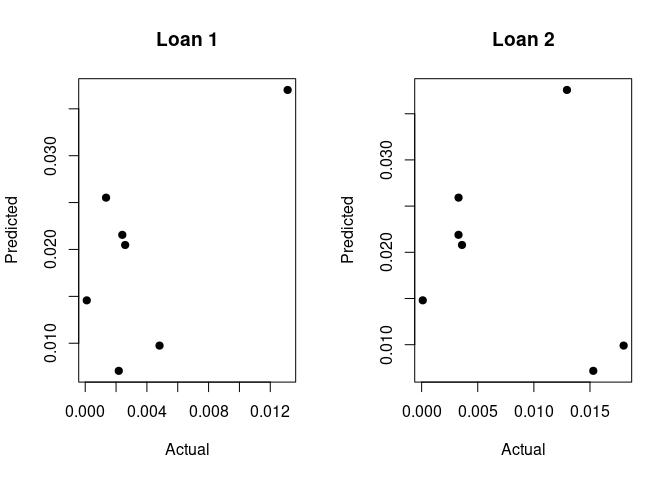
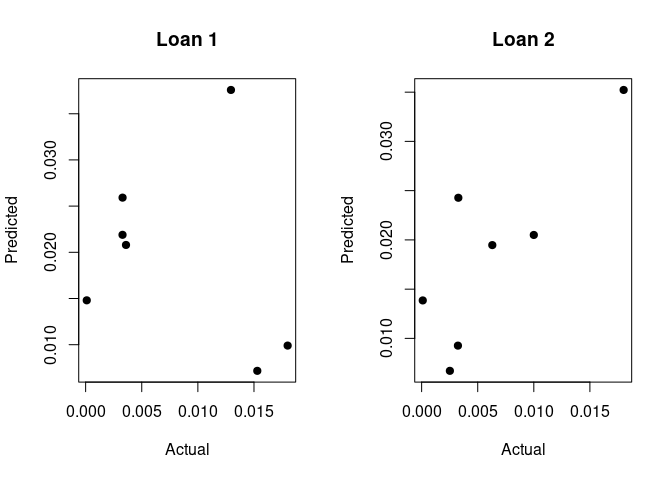
Updates.

diff --git a/newrmd.md b/newrmd.md
@@ -185,14 +185,14 @@ summary(mod_bl)
     ##                  Within R2: 0.002527
 
 ``` r
-mod_st <- feols(default_rate ~ account_id | age^r12_gdp_bl, data = data)
+mod_st <- feols(default_rate ~ account_id | age^r12_gdp_st, data = data)
 summary(mod_st)
 ```
 
     ## OLS estimation, Dep. Var.: default_rate
     ## Observations: 2,372 
-    ## Fixed-effects: age^r12_gdp_bl: 8
-    ## Standard-errors: Clustered (age^r12_gdp_bl) 
+    ## Fixed-effects: age^r12_gdp_st: 8
+    ## Standard-errors: Clustered (age^r12_gdp_st) 
     ##             Estimate Std. Error  t value Pr(>|t|)    
     ## account_id -1.34e-08   6.46e-09 -2.07982 0.076106 .  
     ## ---
@@ -214,8 +214,8 @@ is more appropriate to use a Fixed-Effect Generalized Linear Model
 instead of an Ordinary Least Squares.
 
 ``` r
-mod_bound = feglm(default_rate ~ account_id | age + r12_gdp_bl, data = data, family = "quasibinomial")
-summary(mod_bound$fitted.values)
+mod_bound_bl = feglm(default_rate ~ account_id | age + r12_gdp_bl, data = data, family = "quasibinomial")
+summary(mod_bound_bl$fitted.values)
 ```
 
     ##     Min.  1st Qu.   Median     Mean  3rd Qu.     Max. 
@@ -229,8 +229,8 @@ Plot the actual vs the predicted values of the default rate for the two
 loans selected previously.
 
 ``` r
-pred_1 = predict(mod_bound, book_1)
-pred_2 = predict(mod_bound, book_2)
+pred_1 = predict(mod_bound_bl, book_1)
+pred_2 = predict(mod_bound_bl, book_2)
 
 df_1 = data.frame(Age = book_1$age, Actual = book_1$default_rate, Predicted = pred_1)
 df_2 = data.frame(Age = book_2$age, Actual = book_2$default_rate, Predicted = pred_2)
@@ -255,21 +255,21 @@ Aggregate actual rates and predicted rates by age.
 ``` r
 par(mfrow=c(1,2))
 
-plot(x = df_1$Age, y = df_1$Predicted, type = "p", pch = 19, col = "red",
+plot(x = df_1[-1,]$Age, y = df_1[-1,]$Predicted, type = "p", pch = 19, col = "red", ylim = c(0, 0.1),
      main = "Loan 1",
      xlab = "Time",
      ylab = "Default Rate")
 
-points(x = df_1$Age, df_1$Actual, type = "p", pch = 19, col = "black")
+points(x = df_1[-1,]$Age, df_1[-1,]$Actual, type = "p", pch = 19, col = "black")
 
 legend("topright", c("Actual","Predicted"), col=c("black","red"), pch=c(19,19))
 
-plot(x = df_2$Age, y = df_2$Predicted, type = "p", pch = 19, col = "red",
+plot(x = df_2[-1,]$Age, y = df_2[-1,]$Predicted, type = "p", pch = 19, col = "red", ylim = c(0, 0.1),
      main = "Loan 2",
      xlab = "Time",
      ylab = "Default Rate")
 
-points(x = df_2$Age, df_2$Actual, type = "p", pch = 19, col = "black")
+points(x = df_2[-1,]$Age, df_2[-1,]$Actual, type = "p", pch = 19, col = "black")
 
 legend("topright", c("Actual","Predicted"), col=c("black","red"), pch=c(19,19))
 ```
